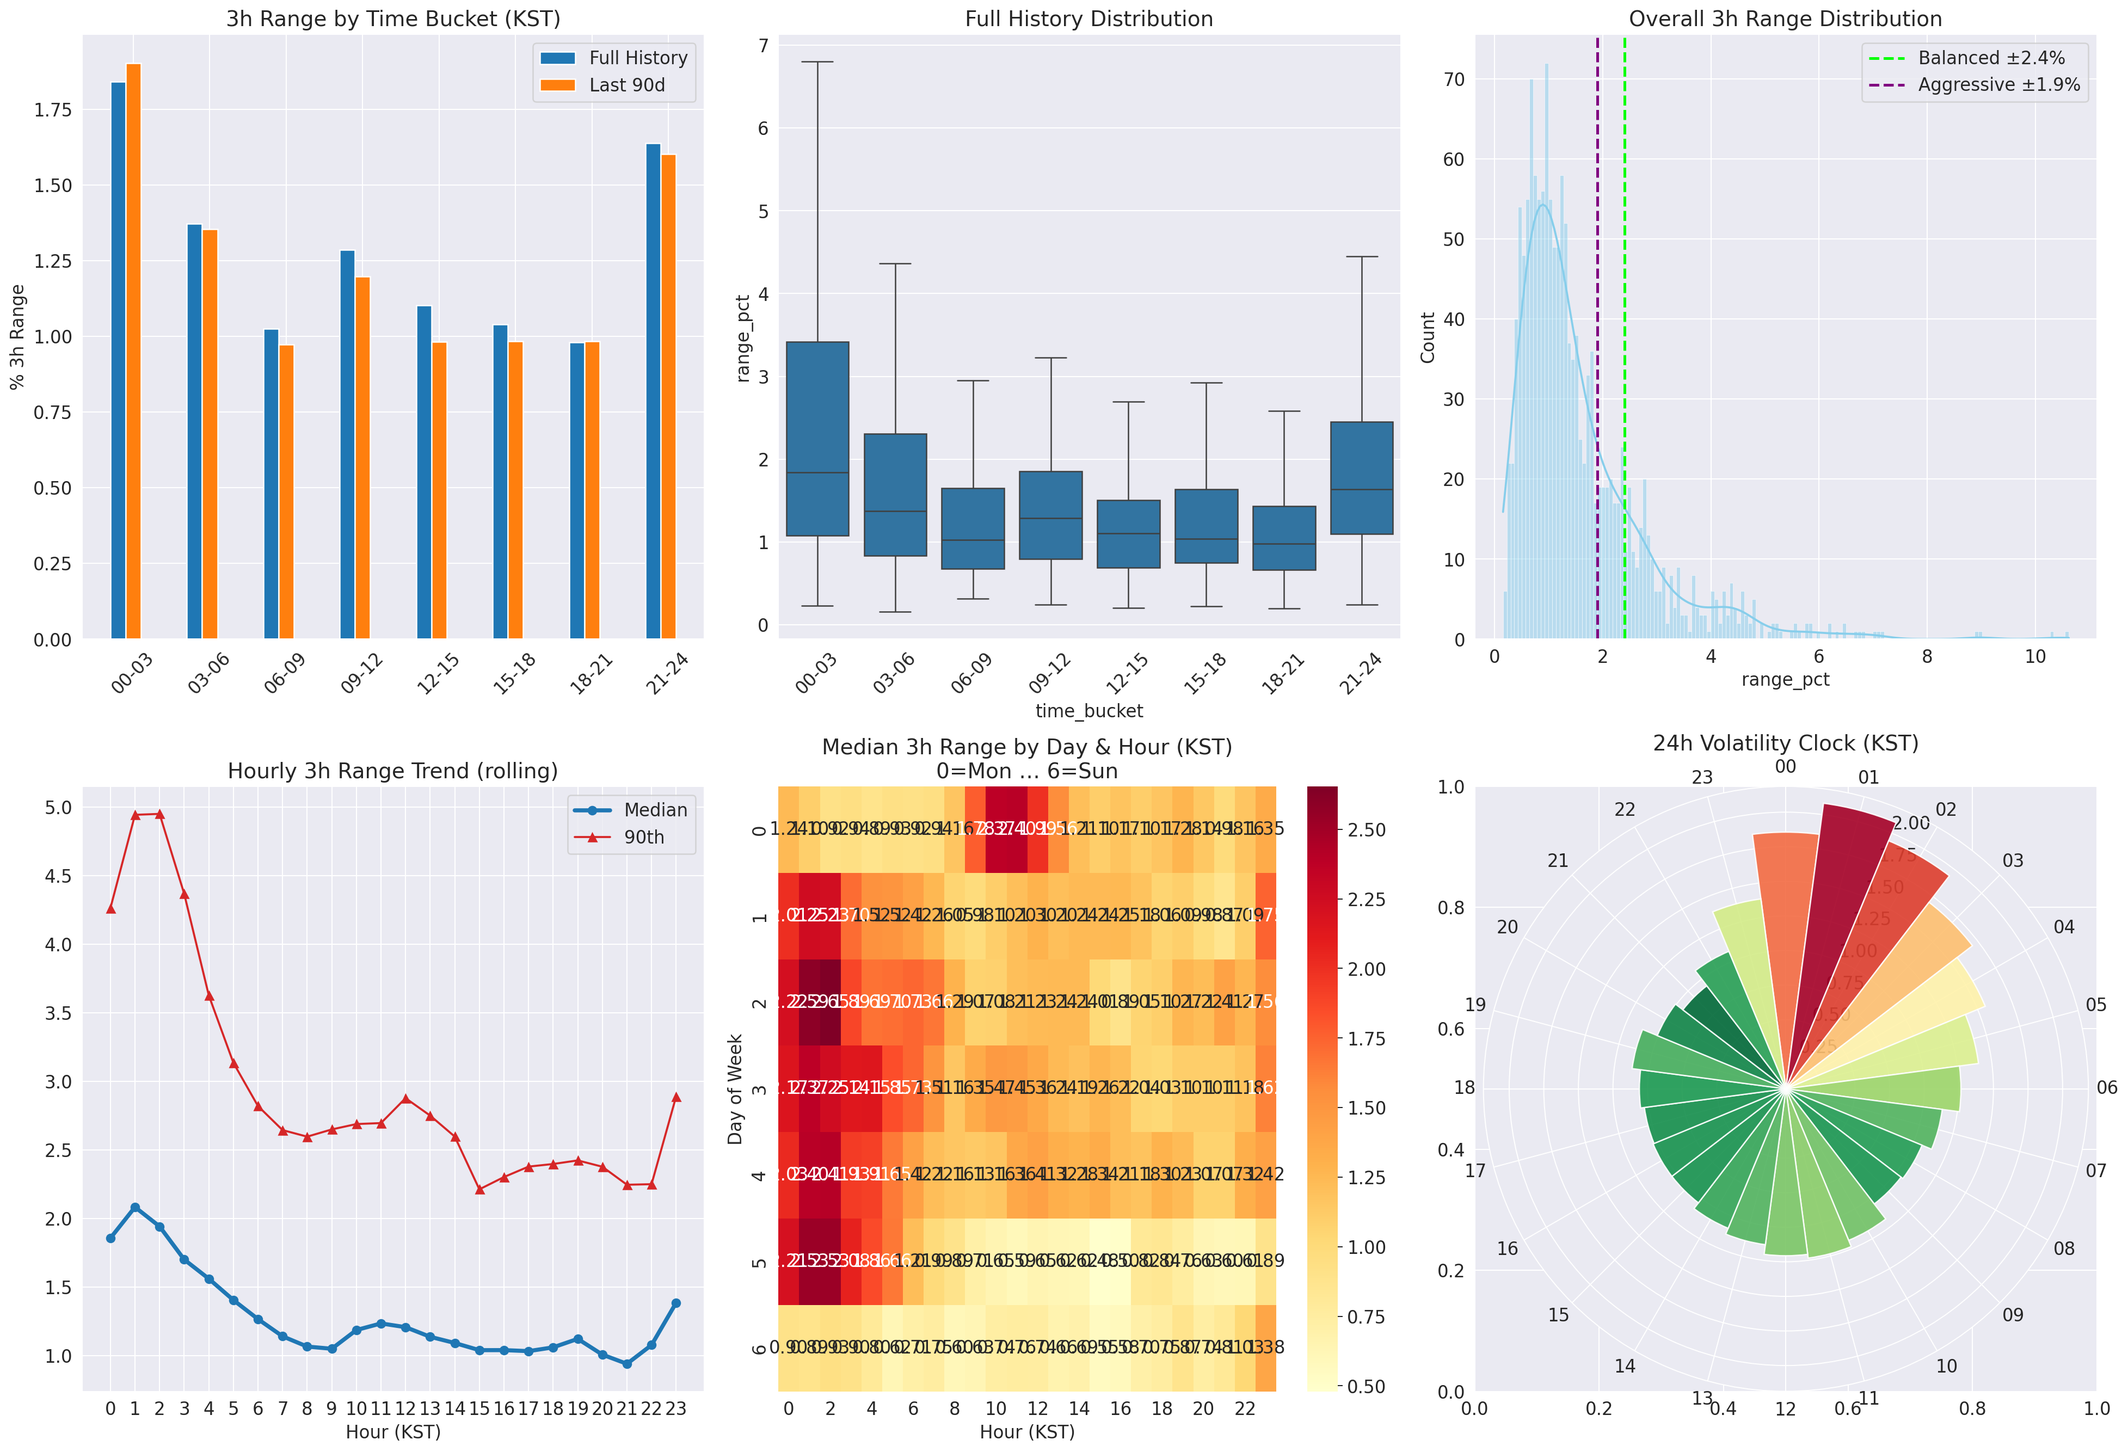
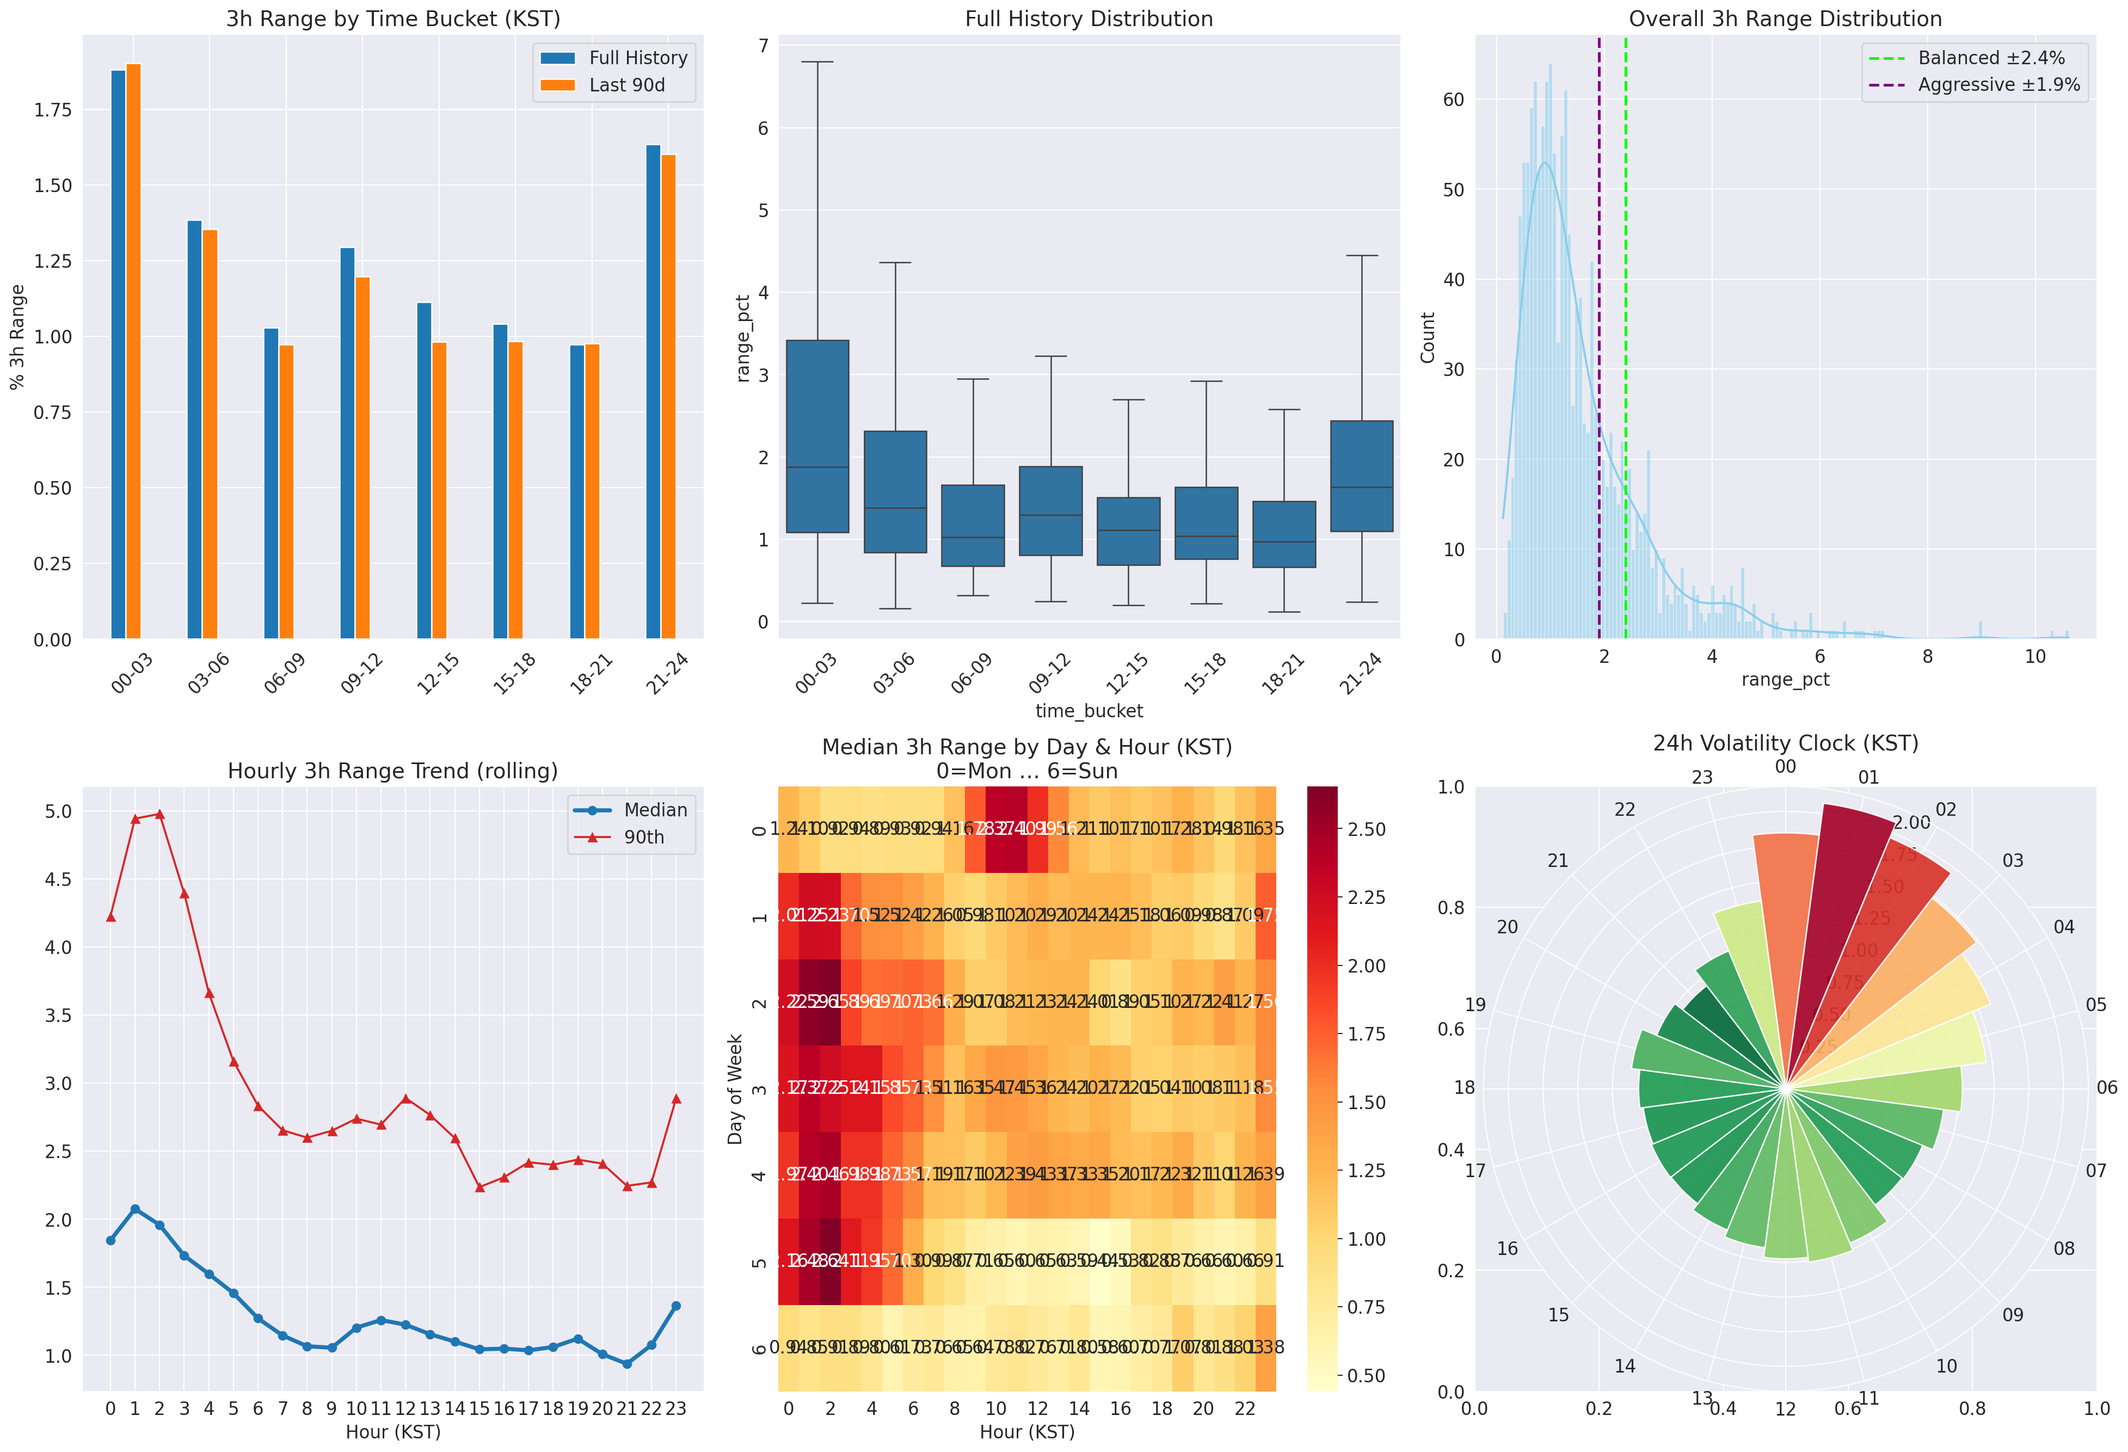
switched to 180 days. result still mostly the same

diff --git a/src/aero_pools_analysis_and_base_wallet/get_historic_data_pool.py b/src/aero_pools_analysis_and_base_wallet/get_historic_data_pool.py
@@ -1,194 +1,191 @@
 import requests
 import pandas as pd
 import time
-import os
 from datetime import datetime, timezone, timedelta
-from typing import Optional
+from typing import Optional, List
 
 
 class AerodromeSlipstreamFetcher:
     """
-    Robust fetcher for Aerodrome Slipstream pools.
-    Features:
-      • Automatic incremental updates (only fetches new candles since your last CSV entry)
-      • Full history on first run (capped at max_years)
-      • Perfect compatibility with your existing CSV (timezone-aware fix included)
-      • Safe, rate-limit friendly, no duplicates
+    Simplified fetcher for Aerodrome Slipstream pools (Geckoterminal API).
+    Always fetches the most recent ~180 days of data.
+    Overwrites the CSV file on every run — no incremental merging logic.
     """
 
     def __init__(self, pool_address: str, network: str = "base"):
         self.pool_address = pool_address.lower()
         self.network = network
-        self.base_url = f"https://api.geckoterminal.com/api/v2/networks/{network}/pools/{pool_address}/ohlcv/minute"
+        self.base_url = (
+            f"https://api.geckoterminal.com/api/v2/networks/{network}/"
+            f"pools/{self.pool_address}/ohlcv/minute"
+        )
         self.session = requests.Session()
         self.session.headers.update({"Accept": "application/json"})
 
-    def _fetch_batch(self, currency: str, before_ts: Optional[int] = None, aggregate: int = 15, limit: int = 500, retries: int = 5) -> list:
-        """Fetch one batch with smart retry on 429"""
+    def _fetch_batch(
+        self,
+        currency: str,
+        before_ts: Optional[int] = None,
+        aggregate: int = 15,
+        limit: int = 500,
+        retries: int = 5
+    ) -> List[list]:
+        """Fetch one page (batch) of OHLCV data with retry on rate limit"""
         for attempt in range(retries + 1):
-            params = {"aggregate": aggregate, "limit": limit, "currency": currency}
-            if before_ts:
+            params = {
+                "aggregate": aggregate,
+                "limit": limit,
+                "currency": currency,
+            }
+            if before_ts is not None:
                 params["before_timestamp"] = before_ts
 
-            response = self.session.get(self.base_url, params=params)
+            try:
+                resp = self.session.get(self.base_url, params=params, timeout=15)
+                resp.raise_for_status()
+                data = resp.json()
+                ohlcv = data.get("data", {}).get("attributes", {}).get("ohlcv_list", [])
+                return ohlcv
 
-            if response.status_code == 200:
-                data = response.json()
-                return data.get("data", {}).get("attributes", {}).get("ohlcv_list", [])
+            except requests.exceptions.HTTPError as e:
+                if resp.status_code == 429:
+                    wait = (2 ** attempt) * 5 + 2  # 7s → 12s → 22s → 42s → ...
+                    print(f"Rate limit (429). Sleeping {wait}s  (attempt {attempt+1}/{retries})")
+                    time.sleep(wait)
+                    continue
+                print(f"HTTP {resp.status_code} ({currency}): {resp.text[:180]}")
+                return []
 
-            if response.status_code == 429:
-                wait = (2 ** attempt) * 5
-                print(f" ⏳ Rate limit hit (429). Waiting {wait}s before retry {attempt+1}/{retries}...")
-                time.sleep(wait)
-                continue
+            except Exception as e:
+                print(f"Request failed ({currency}): {str(e)}")
+                return []
 
-            print(f"❌ Error {response.status_code} (currency={currency}): {response.text[:150]}")
-            return []
-
-        print(f"❌ Failed after {retries} retries for currency={currency}")
+        print(f"Failed after {retries} retries — currency={currency}")
         return []
 
-    def fetch_full_history(self, aggregate: int = 15, save_csv: bool = True, 
-                           filename: Optional[str] = None, max_years: Optional[float] = 0.5) -> pd.DataFrame:
-        """Fetch full history OR incrementally update existing CSV"""
-        
-        # === DETERMINE FILENAME ===
+    def fetch_recent(
+        self,
+        days_back: float = 179.0,
+        aggregate: int = 15,
+        save_csv: bool = True,
+        filename: Optional[str] = None,
+        max_pages: int = 400
+    ) -> pd.DataFrame:
+        """
+        Fetch the most recent N days of OHLCV data (15-min candles by default).
+        Always starts from now and paginates backwards until time window or data ends.
+        Overwrites the CSV file each run.
+        """
         if filename is None:
-            #max_part = f"max{max_years}y" if max_years is not None else "full"
-            filename = f"aerodrome_{self.pool_address}_{aggregate}min.csv"
+            filename = f"aerodrome_{self.pool_address}_{aggregate}min_recent.csv"
 
-        # === LOAD EXISTING DATA IF PRESENT (incremental mode) ===
-        existing_df = None
-        last_known_ts = None
-        is_update = False
-        kst_tz = timezone(timedelta(hours=9))  # KST = UTC+9
+        now_ts = int(time.time())
+        cutoff_ts = now_ts - int(days_back * 86400)
+        cutoff_date_str = datetime.fromtimestamp(cutoff_ts, tz=timezone.utc).strftime("%Y-%m-%d")
 
-        if os.path.exists(filename):
-            print(f"📁 Existing data found → {filename}")
-            existing_df = pd.read_csv(filename, index_col='datetime', parse_dates=True)
-            
-            # ← CRITICAL FIX: Make index timezone-aware (prevents pandas concat warnings)
-            if existing_df.index.tz is None:
-                existing_df.index = pd.to_datetime(existing_df.index, utc=True)
-            
-            # Get latest timestamp
-            if 'timestamp' in existing_df.columns:
-                last_known_ts = int(existing_df['timestamp'].max())
-            else:
-                last_known_ts = int(existing_df.index.astype('int64') // 10**9).max()
-            
-            last_utc = datetime.fromtimestamp(last_known_ts, tz=timezone.utc)
-            last_kst = last_utc.astimezone(kst_tz)
-            print(f"   Latest entry: {last_utc.strftime('%Y-%m-%d %H:%M')} UTC "
-                  f"({last_kst.strftime('%Y-%m-%d %H:%M KST')})")
-            print(f"   → Performing incremental update (only new candles since then)...")
-            is_update = True
-        else:
-            print(f"🆕 No existing file → starting full fetch (capped at {max_years} years)")
+        print(f"Fetching ≈ {days_back:.1f} days of {aggregate}-minute candles")
+        print(f"→ Data before {cutoff_date_str} UTC will be ignored")
+        print(f"Output file: {filename}\n")
 
-        # === CUTOFF ONLY FOR INITIAL FULL FETCH ===
-        cutoff_ts = None
-        if max_years is not None and not is_update:
-            cutoff_ts = int(time.time()) - int(max_years * 365.25 * 24 * 3600)
-            cutoff_date = datetime.fromtimestamp(cutoff_ts, tz=timezone.utc).strftime('%Y-%m-%d')
-            print(f"📅 Capping at max {max_years} years → ignoring before {cutoff_date}")
-
-        # === FETCH LOOP ===
-        all_usd = []
-        all_ratio = []
-        before_ts = None
+        all_usd: List[list] = []
+        all_ratio: List[list] = []
+        before_ts: Optional[int] = None
         page = 0
-        max_pages = 300
 
-        print(f"🚀 Starting {'UPDATE' if is_update else 'FULL'} fetch for pool {self.pool_address[:10]}...")
+        kst_tz = timezone(timedelta(hours=9))
 
         while page < max_pages:
             batch_usd = self._fetch_batch("usd", before_ts, aggregate)
             batch_ratio = self._fetch_batch("token", before_ts, aggregate)
 
             if not batch_usd or not batch_ratio:
-                print("✅ Reached end of available data from API.")
+                print("Reached end of available data from API.")
                 break
 
-            batch_latest_ts = batch_usd[0][0]
-            batch_oldest_ts = batch_usd[-1][0]
+            ts_latest = batch_usd[0][0]
+            ts_oldest = batch_usd[-1][0]
 
-            first_date = datetime.fromtimestamp(batch_latest_ts, tz=timezone.utc).strftime('%Y-%m-%d %H:%M UTC')
-            oldest_date = datetime.fromtimestamp(batch_oldest_ts, tz=timezone.utc).strftime('%Y-%m-%d')
-            print(f" Page {page + 1:2d}... {first_date} → {oldest_date}")
+            dt_latest = datetime.fromtimestamp(ts_latest, tz=timezone.utc)
+            dt_oldest = datetime.fromtimestamp(ts_oldest, tz=timezone.utc)
 
-            # === FILTER / COLLECT NEW DATA ===
-            if last_known_ts is not None:  # UPDATE MODE
-                new_usd = [c for c in batch_usd if c[0] > last_known_ts]
-                new_ratio = [c for c in batch_ratio if c[0] > last_known_ts]
-                
-                all_usd.extend(new_usd)
-                all_ratio.extend(new_ratio)
+            print(
+                f"Page {page+1:3d} | "
+                f"{dt_latest:%Y-%m-%d %H:%M} → {dt_oldest:%Y-%m-%d}"
+            )
 
-                if len(new_usd) < len(batch_usd):  # we hit existing data
-                    print(f"   → Reached existing data. Incremental fetch complete.")
-                    break
-            else:  # FULL MODE
-                all_usd.extend(batch_usd)
-                all_ratio.extend(batch_ratio)
+            # Keep only candles inside our desired window
+            batch_usd = [c for c in batch_usd if c[0] >= cutoff_ts]
+            batch_ratio = [c for c in batch_ratio if c[0] >= cutoff_ts]
 
-                # Apply max_years cutoff
-                if cutoff_ts is not None and batch_oldest_ts < cutoff_ts:
-                    print(f"   → Hit {max_years}-year limit. Trimming...")
-                    all_usd = [c for c in all_usd if c[0] >= cutoff_ts]
-                    all_ratio = [c for c in all_ratio if c[0] >= cutoff_ts]
-                    break
+            all_usd.extend(batch_usd)
+            all_ratio.extend(batch_ratio)
 
-            before_ts = batch_oldest_ts - 1
-
-            if len(batch_usd) < 400:
+            # Early stop if we've already gone far enough back
+            if ts_oldest < cutoff_ts:
+                print("Reached desired time range → stopping early.")
                 break
 
-            time.sleep(2.2)
+            before_ts = ts_oldest - 1
             page += 1
 
-        # === BUILD / MERGE DATAFRAME ===
-        if all_usd:
-            df_usd = pd.DataFrame(all_usd, columns=['timestamp', 'open_usd', 'high_usd', 'low_usd', 'close_usd', 'volume_usd'])
-            df_ratio = pd.DataFrame(all_ratio, columns=['timestamp', 'open_ratio', 'high_ratio', 'low_ratio', 'close_ratio', 'volume_ratio'])
+            if len(batch_usd) < 450:  # API usually returns < limit near the beginning
+                break
 
-            df_new = pd.merge(df_usd, df_ratio, on='timestamp', how='inner')
-            df_new['datetime'] = pd.to_datetime(df_new['timestamp'], unit='s', utc=True)
-            df_new = df_new.set_index('datetime').sort_index()
-            df_new['close_cbbtc_usd'] = df_new['close_usd'] / df_new['close_ratio']
+            time.sleep(2.3)  # conservative rate-limit padding
 
-            if existing_df is not None:
-                df = pd.concat([existing_df, df_new])
-                df = df[~df.index.duplicated(keep='last')].sort_index()
-                print(f"\n✅ UPDATED! Added {len(df_new):,} new candles → Total: {len(df):,}")
-            else:
-                df = df_new
-                print(f"\n✅ NEW full dataset: {len(df):,} candles")
-        else:
-            df = existing_df
-            print("\n✅ No new data to add.")
+        if not all_usd:
+            print("\nNo data was retrieved.")
+            return pd.DataFrame()
 
-        # Final summary (with KST for you)
+        # ── Build DataFrame ────────────────────────────────────────────────
+        df_usd = pd.DataFrame(
+            all_usd,
+            columns=["timestamp", "open_usd", "high_usd", "low_usd", "close_usd", "volume_usd"]
+        )
+        df_ratio = pd.DataFrame(
+            all_ratio,
+            columns=["timestamp", "open_ratio", "high_ratio", "low_ratio", "close_ratio", "volume_ratio"]
+        )
+
+        df = pd.merge(df_usd, df_ratio, on="timestamp", how="inner")
+        df["datetime"] = pd.to_datetime(df["timestamp"], unit="s", utc=True)
+        df = df.set_index("datetime").sort_index()
+        df["close_cbbtc_usd"] = df["close_usd"] / df["close_ratio"]
+
+        # ── Summary ────────────────────────────────────────────────────────
         if not df.empty:
             latest_utc = df.index[-1]
-            latest_kst = latest_utc.tz_convert(kst_tz) if hasattr(latest_utc, 'tz_convert') else latest_utc
-            print(f"   Range: {df.index[0]} → {latest_utc} UTC ({latest_kst.strftime('%Y-%m-%d %H:%M KST')})")
-            print(f"   Latest: 1 WETH = ${df['close_usd'].iloc[-1]:.2f} "
-                  f"= {df['close_ratio'].iloc[-1]:.6f} cbBTC "
-                  f"(cbBTC ≈ ${df['close_cbbtc_usd'].iloc[-1]:,.0f})")
+            latest_kst = latest_utc.astimezone(kst_tz)
+
+            print(f"\nRange:     {df.index[0]} → {latest_utc} UTC")
+            print(  f"           ({latest_kst.strftime('%Y-%m-%d %H:%M KST')})")
+            print(f"Latest:    1 WETH ≈ ${df['close_usd'].iloc[-1]:,.2f}")
+            print(f"           = {df['close_ratio'].iloc[-1]:.6f} cbBTC")
+            print(f"           (cbBTC ≈ ${df['close_cbbtc_usd'].iloc[-1]:,.0f})")
+            print(f"Candles:   {len(df):,}")
+            print(f"File size: ~{len(df) * 0.00035:.1f} MB (rough estimate)")
 
         if save_csv:
             df.to_csv(filename)
-            print(f"💾 Saved/Updated → {filename}")
+            print(f"\nSaved → {filename}")
 
         return df
 
 
-# ====================== USAGE ======================
+# ────────────────────────────────────────────────
 if __name__ == "__main__":
-    fetcher = AerodromeSlipstreamFetcher("0x22aee3699b6a0fed71490c103bd4e5f3309891d5")
-    
-    df = fetcher.fetch_full_history(max_years=0.5)  # first run = full; next runs = auto-update
+    # Example usage — replace with your pool if needed
+    POOL = "0x22aee3699b6a0fed71490c103bd4e5f3309891d5"   # WETH–cbBTC example
 
-    print("\nLast 3 rows preview:")
-    print(df[['close_usd', 'close_ratio', 'close_cbbtc_usd', 'volume_usd']].tail(3))
+    fetcher = AerodromeSlipstreamFetcher(POOL)
+
+    # 179 days is usually safe; 180–185 often works too
+    df = fetcher.fetch_recent(
+        days_back=179,
+        aggregate=15,
+        save_csv=True
+    )
+
+    if not df.empty:
+        print("\nLast 5 candles:")
+        print(df[["close_usd", "close_ratio", "close_cbbtc_usd", "volume_usd"]].tail(5))

diff --git a/src/aero_pools_analysis_and_base_wallet/analyze_historic_data.py b/src/aero_pools_analysis_and_base_wallet/analyze_historic_data.py
@@ -17,7 +17,7 @@ class WethCbBtcVolatilityAnalyzer:
 
     def __init__(self):
         # ====================== CONFIG ======================
-        self.CSV_FILE = 'aerodrome_0x22aee3699b6a0fed71490c103bd4e5f3309891d5_15min.csv'
+        self.CSV_FILE = 'aerodrome_0x22aee3699b6a0fed71490c103bd4e5f3309891d5_15min_recent.csv'
         self.ASSET = 'WETH-cbBTC Pool (USD)'
 
         # Will be populated during run()
